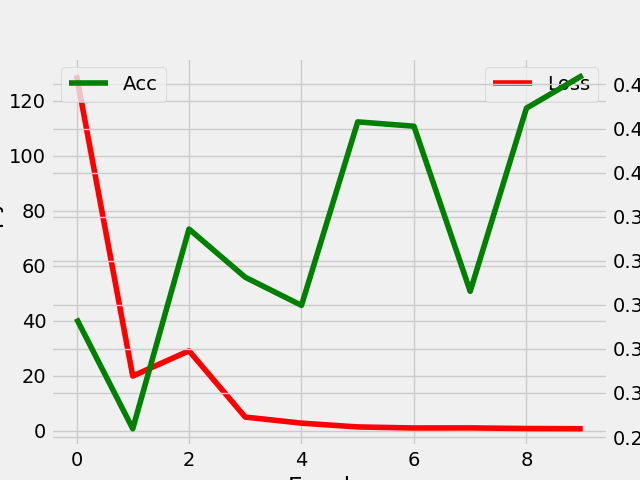
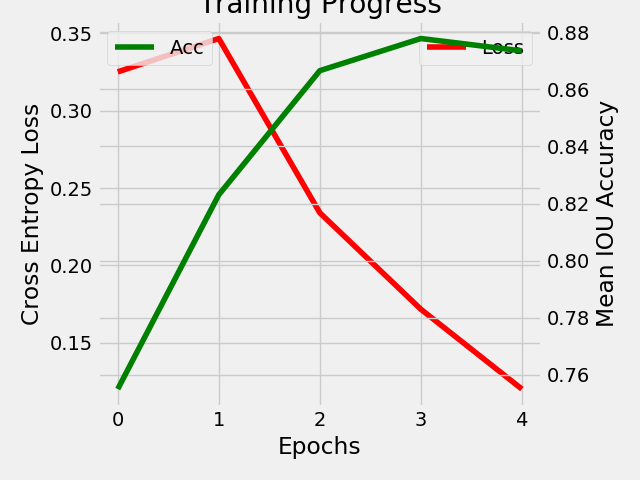
working iou, loss, plots. ran five epochs

diff --git a/main.py b/main.py
@@ -157,23 +157,6 @@ def optimize(nn_last_layer, correct_label, learning_rate, num_classes):
 
 if test_flag: tests.test_optimize(optimize)
 
-def evaluate_loss(sess, cross_entropy_loss, input_image, labels, keep_prob):
-
-    get_batches_fn = helper.gen_batch_function(data_folder=config.path_train_images,
-                                               image_shape=config.image_shape)
-
-    get_batches_gen = get_batches_fn(config.batch_size_loss)
-
-    for images, labels in get_batches_gen:
-        print('images shape {} labels shape {}'.format(images.shape, labels.shape))
-        loss = sess.run(cross_entropy_loss,
-                         feed_dict={
-                            input_image: images,
-                            labels: labels
-                            # keep_prob: 1
-                         })
-        print('loss', loss)
-
 
 def train_nn(sess, epochs, batch_size, get_batches_fn, train_op,
              cross_entropy_loss, input_image, correct_label,
@@ -206,22 +189,10 @@ def train_nn(sess, epochs, batch_size, get_batches_fn, train_op,
         cprint('epoch {}'.format(epoch), 'blue')
 
         start = time()
-        b = 0
         for images, labels in tqdm(get_batches_fn(batch_size)):
             sess.run(train_op, feed_dict={input_image: images,
                                           correct_label: labels,
                                           keep_prob: 0.5})
-
-
-
-            b += 1
-            if b == 1: break
-
-        # evaluate_loss(sess,
-        #               cross_entropy_loss,
-        #               input_image,
-        #               correct_label,
-        #               keep_prob)
 
         # M E A N  I O U
         mean_iou = helper.compute_mean_iou(sess, logits, input_image, keep_prob)
@@ -239,19 +210,19 @@ def train_nn(sess, epochs, batch_size, get_batches_fn, train_op,
         cprint('LOSS: {0:3.5f}'.format(loss), 'green', 'on_grey')
 
         # S A V E  M O D E L
-        # helper.save_model(sess=sess, saver=saver, epoch=epoch, start_time=start)
+        helper.save_model(sess=sess, saver=saver, epoch=epoch, start_time=start)
 
         # C R E A T E  T E S T  I M A G E S  &  M O V I E
-        # if epoch % config.create_movie_interval == 0:
-        #     save_inference_samples(
-        #         runs_dir=config.runs_dir,
-        #         path_test_images=config.path_test_images,
-        #         sess=sess,
-        #         image_shape=config.image_shape,
-        #         logits=logits,
-        #         keep_prob=keep_prob,
-        #         input_image=input_image,
-        #         epoch=epoch)
+        if epoch % config.create_movie_interval == 0:
+            save_inference_samples(
+                runs_dir=config.runs_dir,
+                path_test_images=config.path_test_images,
+                sess=sess,
+                image_shape=config.image_shape,
+                logits=logits,
+                keep_prob=keep_prob,
+                input_image=input_image,
+                epoch=epoch)
 
     helper.plot_progress(loss=losses, acc=mean_ious)
 

diff --git a/helper.py b/helper.py
@@ -177,33 +177,35 @@ def compute_mean_iou(sess, logits, input_image, keep_prob):
     """
     get_batches_fn = gen_batch_function(config.path_train_images, config.image_shape)
 
-    images, labels = next(get_batches_fn(1))
+    # images, labels = next(get_batches_fn(100))
 
-    # print('img shape {} -- labels shape {}'.format(images.shape, labels.shape))
+    accum_mean = 0
+    counter = 0
+    cprint('Computing Mean_IOU', 'blue')
+    for images, labels in tqdm(get_batches_fn(1)):
+        counter += 1
+        prediction = sess.run(
+            [tf.nn.softmax(logits)],
+            {keep_prob: 1.0, input_image: images})
 
-    prediction = sess.run(
-        [tf.nn.softmax(logits)],
-        {keep_prob: 1.0, input_image: images})
+        prediction = np.array(prediction)
+        prediction = prediction.reshape(-1, 160, 576, 2)
 
-    prediction = np.array(prediction)
-    prediction = prediction.reshape(-1, 160, 576, 2)
+        pred_thresh = prediction > 0.5
+        prediction[pred_thresh] = 1
 
-    pred_thresh = prediction > 0.5
-    prediction[pred_thresh] = 1
+        iou, iou_op = define_mean_iou(labels, prediction, num_classes=config.num_classes)
+        sess.run(tf.local_variables_initializer())
+        mean_mat = sess.run(iou_op)
+        mean_acc = sess.run(iou)
+        accum_mean += mean_acc
 
-    labels_thresh = labels == True
-    labels[labels_thresh] = 1
-    labels_thresh = labels == False
-    labels[labels_thresh] = 0
+        # I don't have enough GPU goodness to run all images
+        if counter == config.mean_iou_counter: break
 
-    # print('prediction shape {} -- labels shape {}'.format(prediction.shape, labels.shape))
+    mean_acc = accum_mean / counter
+    cprint('\nMEAN IOU: {0:3.5f}'.format(mean_acc), 'green', 'on_grey')
 
-    iou, iou_op = define_mean_iou(labels, prediction, num_classes=config.num_classes)
-    sess.run(tf.local_variables_initializer())
-    mean_mat = sess.run(iou_op)
-    cprint('mean_io\n{}'.format(mean_mat), 'green', 'on_grey')
-    mean_acc = sess.run(iou)
-    cprint('MEAN IOU: {0:3.5f}'.format(mean_acc), 'green', 'on_grey')
     return mean_acc
 
 def gen_test_output(sess, logits, keep_prob, image_pl, path_test_images, image_shape):

diff --git a/config.py b/config.py
@@ -7,7 +7,7 @@ Image_Shape = namedtuple('Image_Shape', 'x y')
 
 num_classes = 2
 image_shape = Image_Shape(x=576, y=160)
-EPOCHS = 10
+EPOCHS = 5
 BATCH_SIZE = 1 # GTX 1050 can only support a size of 1
 batch_size_loss = 1
 LRN_RATE = 1e-3
@@ -16,6 +16,7 @@ runs_dir = './runs'
 visual_dir = './visual'
 path_train_images = os.path.join(data_dir, 'data_road/training')
 path_test_images = os.path.join(data_dir, 'data_road/testing/image_2/*.png')
+mean_iou_counter = 10
 # how often to perform Inference tests and to create timelapse (epoch % create_movie_interval == 0)
 create_movie_interval = 1
 # how many recent models to save
